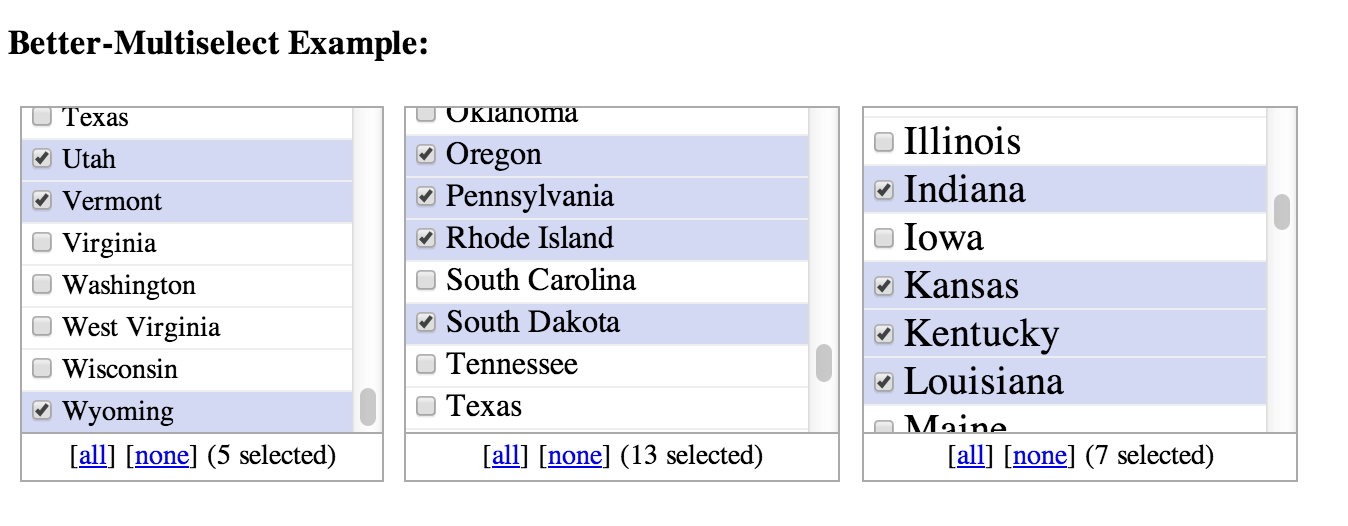
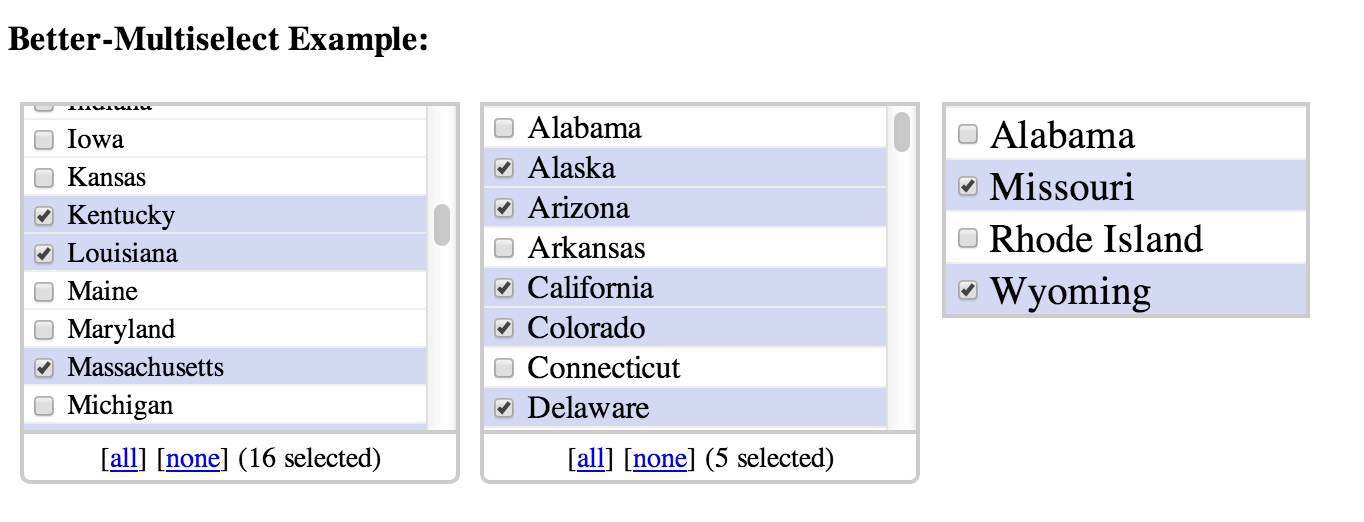
fix count not updating properly, update screen shot to current appearance

diff --git a/js/better-multiselect.js b/js/better-multiselect.js
@@ -23,8 +23,11 @@ var betterMultiselect = {
         return document.createTextNode(t);
     },
     updateNumberSelected: function (elem){
-        if (betterMultiselect.showMultiselectToolbar == true && elem.options.length >= betterMultiselect.toolbarMinOptions) {
-            var container = elem.parentNode.parentNode;
+        var container = elem.parentNode.parentNode;
+        numberOfOptions = container.getElementsByTagName('label').length;
+        if (betterMultiselect.showMultiselectToolbar == true
+            && numberOfOptions >= betterMultiselect.toolbarMinOptions) {
+
             var numSelected = 0;
             var checks = container.getElementsByTagName('input');
             for (var i = 0; i < checks.length; i++) {
